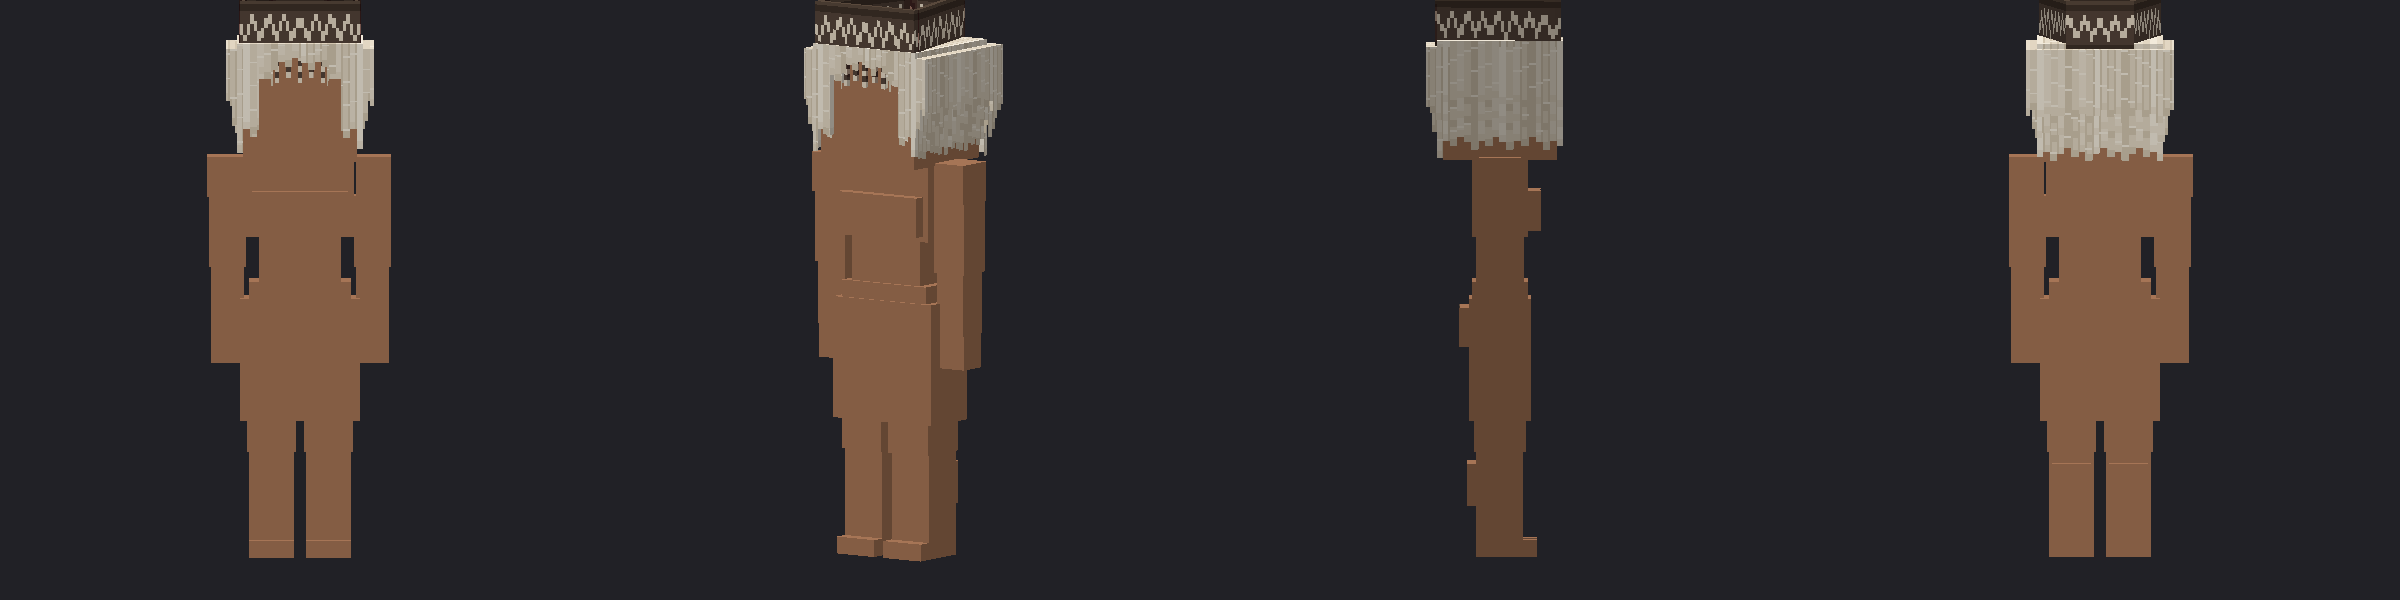
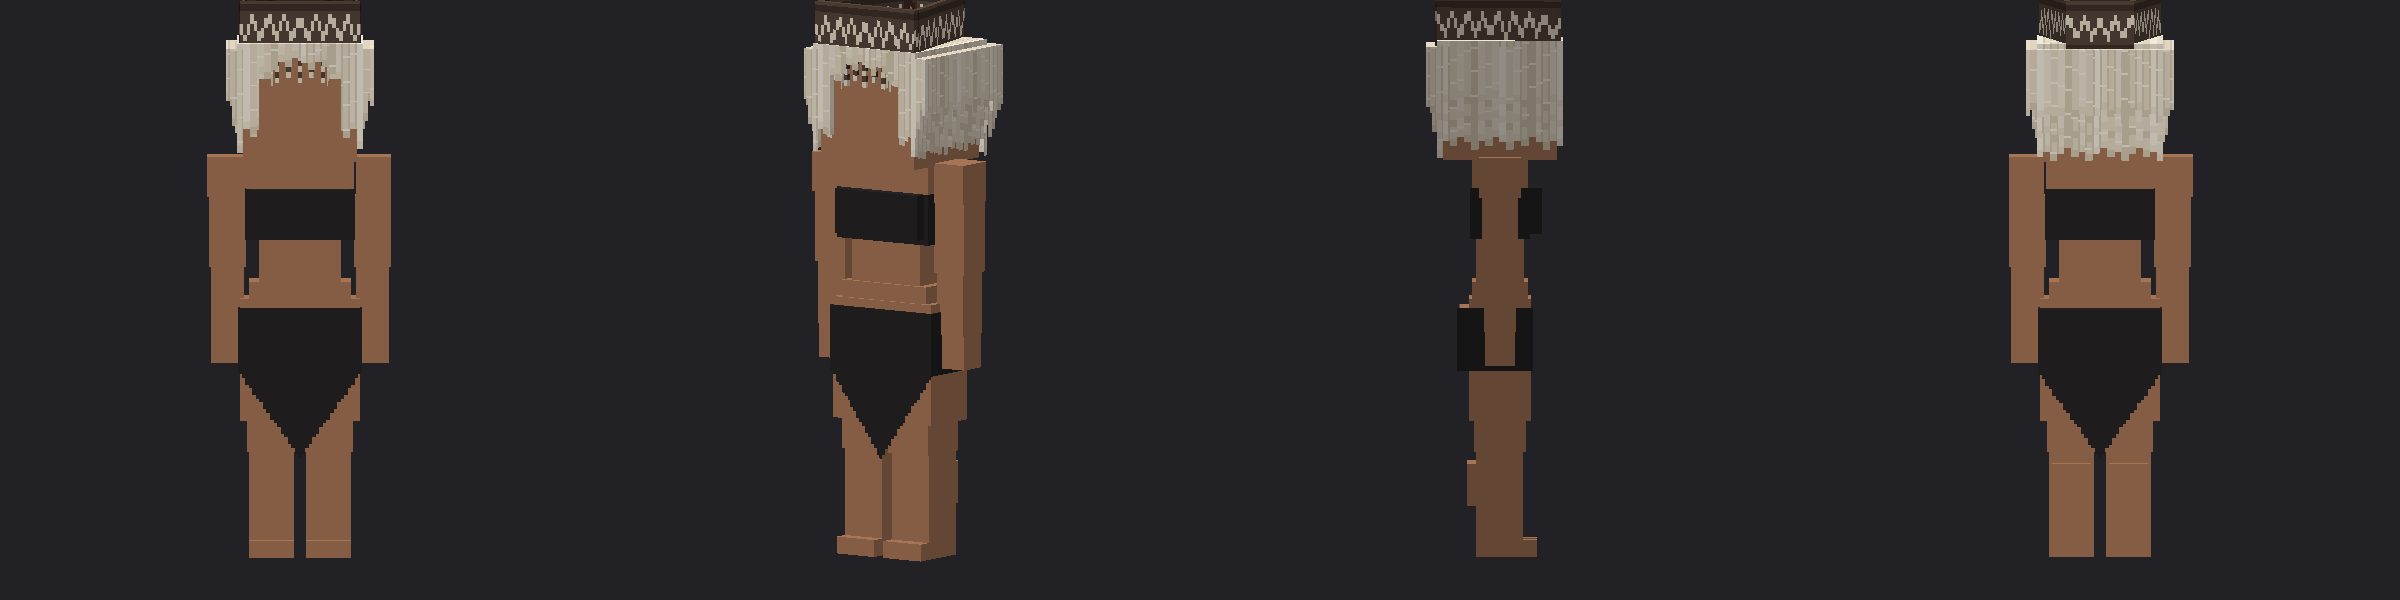
Kemira: top negro y falda en V
Claude-Session: https://claude.ai/code/session_01JLSuk79QgXUucDMTiBYitK

diff --git a/taller/personajes/kemira.py b/taller/personajes/kemira.py
@@ -251,10 +251,34 @@ def cuerpo(p, C, L):
         caja(gl, "pie", (c1, 0.0, -2.6), (c2, 1.2, 1.7))
 
 
+NEGRO_ROPA = "#262325"
+
+
+def falda_v(y_punta, y_lado):
+    """Falda negra con el borde de abajo en V: larga en el medio (y_punta) y corta a los costados (y_lado)."""
+    def p(t):
+        if t.cara in ("up", "down"):
+            return hex_(NEGRO_ROPA)
+        u = t.x if abs(t.n[2]) >= abs(t.n[0]) else 4.4
+        borde = y_punta + (y_lado - y_punta) * min(1.0, abs(u) / 4.4)
+        return TRANSPARENTE if t.y < borde else hex_(NEGRO_ROPA)
+    return p
+
+
+def ropa(p, L):
+    """Solo un top negro sobre el busto y una falda negra en V hacia abajo."""
+    g = "Body/ropa"
+    negro = lambda t: hex_(NEGRO_ROPA)
+    p.caja(g, "top", (-3.9, 22.4, -2.1), (3.9, 26.0, 2.1), negro, dens=D, luz=False)
+    p.caja(g, "top_busto", (-3.5, 22.8, -2.95), (3.5, 26.0, -2.1), negro, dens=D, luz=False)
+    p.caja(g, "falda", (-4.35, 7.0, -2.35), (4.35, L + 1.6, 3.0), falda_v(7.0, 13.2), dens=D, luz=False)
+
+
 def construir():
     p = Personaje("kemira", altura=36, cabeza=8, torso=(7.4, 12, 4.0), brazo=(2.6, 2.6), pierna=(3.4, 3.4))
     C, T = p.cuello, p.tope                                # 28, 36
     cuerpo(p, C, p.lh)
+    ropa(p, p.lh)
     p.caja("Head/cabeza", "cabeza", (-4, C, -4), (4, T, 4), cabeza, dens=8, luz=False)
     pelo(p, C, T)
     penacho(p, T, C)
